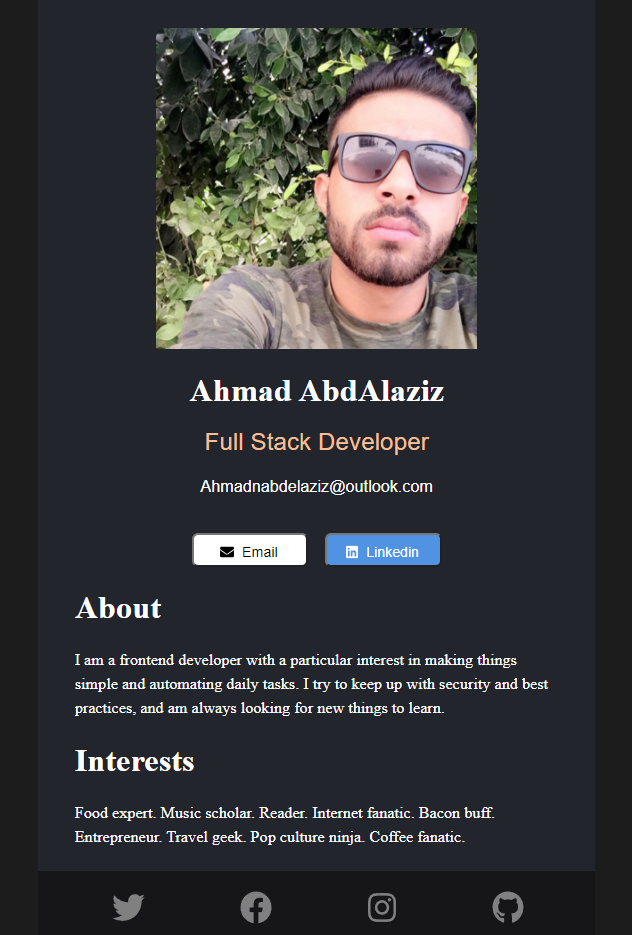
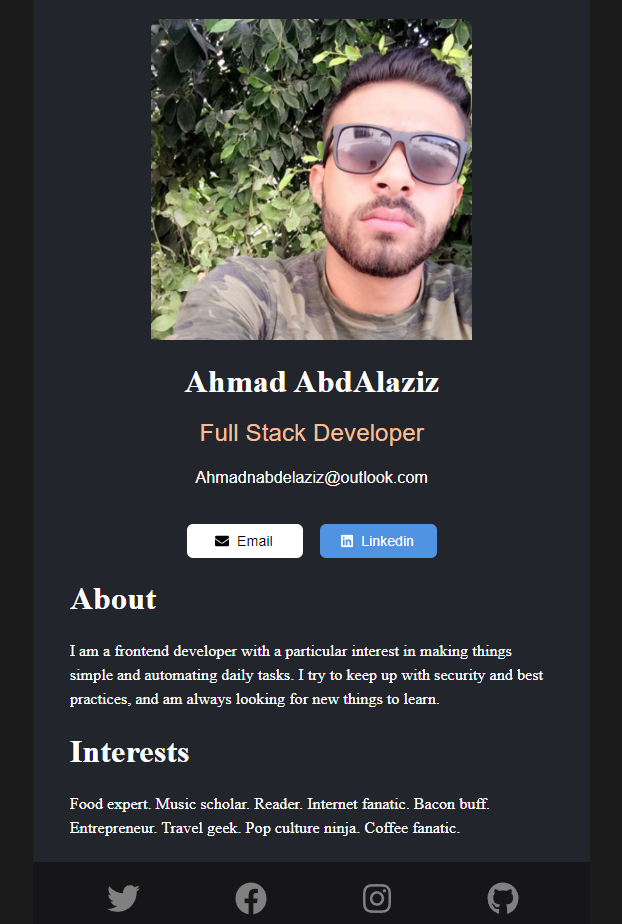
Done

diff --git a/src/style.css b/src/style.css
@@ -64,6 +64,7 @@ margin-left: 30%;
     padding: 9px 13px 9px 11px ;
     border-radius: 6px;
     box-shadow: 0px 1px 2px 0px rgba(0, 0, 0, 0.05);
+    border-style: hidden;
 
  }
  .LinkedinButton{
@@ -77,6 +78,7 @@ margin-left: 30%;
      padding: 9px 13px 9px 11px ;
      border-radius: 6px     ;
      box-shadow: 0px 1px 2px 0px rgba(0, 0, 0, 0.05);
+     border-style: hidden;
 
  }
 

diff --git a/README.md b/README.md
@@ -2,9 +2,10 @@
 The project is a digital bussines card , where i applied some of the React fundementals
 creating components and styling them with CSS, importing images and using FontAwosme.
 
-# More to come in the near Future 
+More to come in the near Future
+
 
 # Screenshoot
 
-![alt text](my-app\src\images\Digital Bussnies Card.png)
+![alt text](https://github.com/AhmadNasserAbdelaziz/Digital-Business-Card/blob/master/src/images/Digital%20Bussnies%20Card.png)
 
